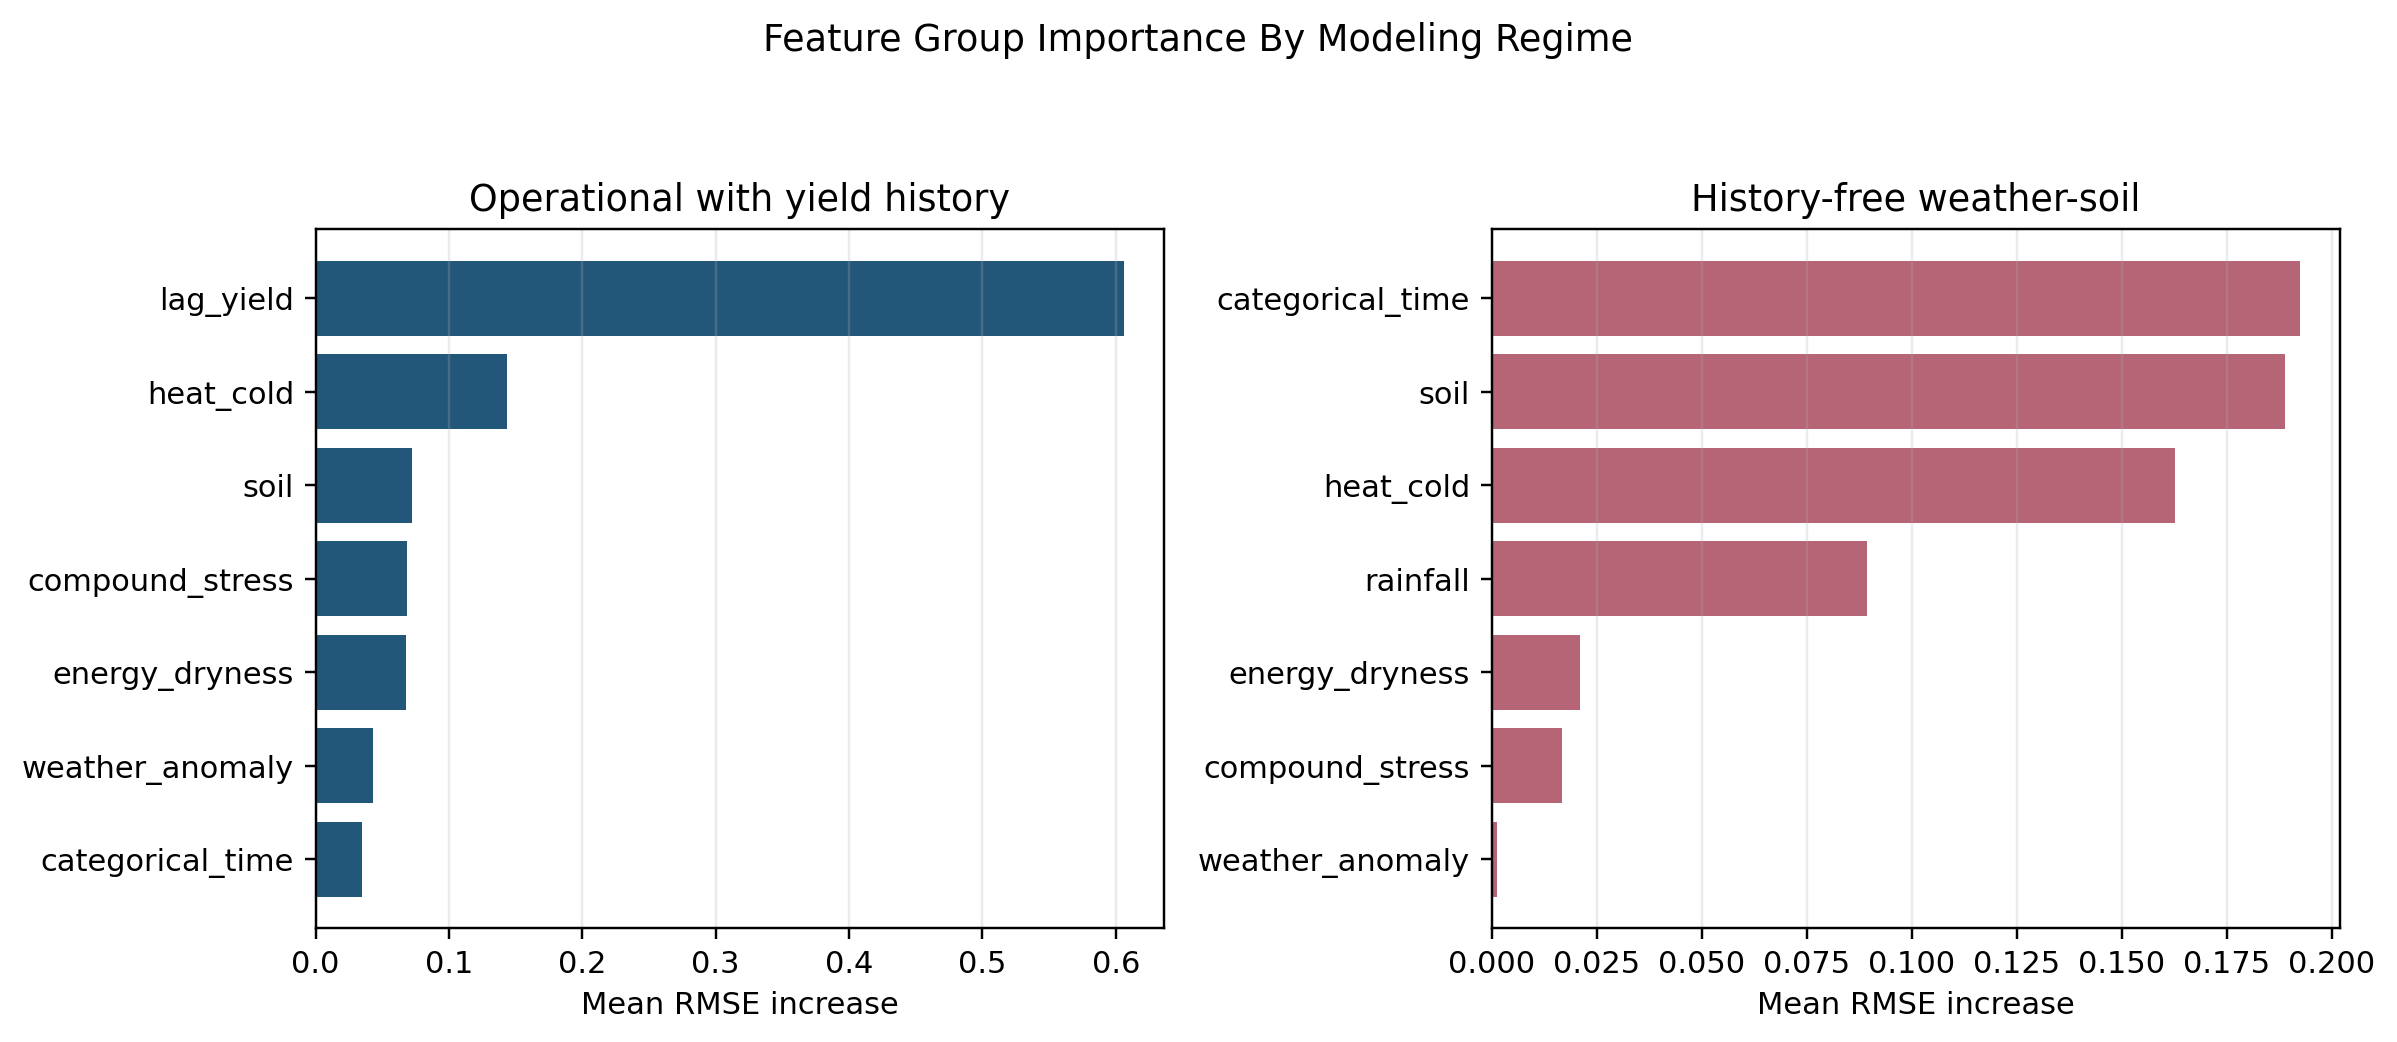
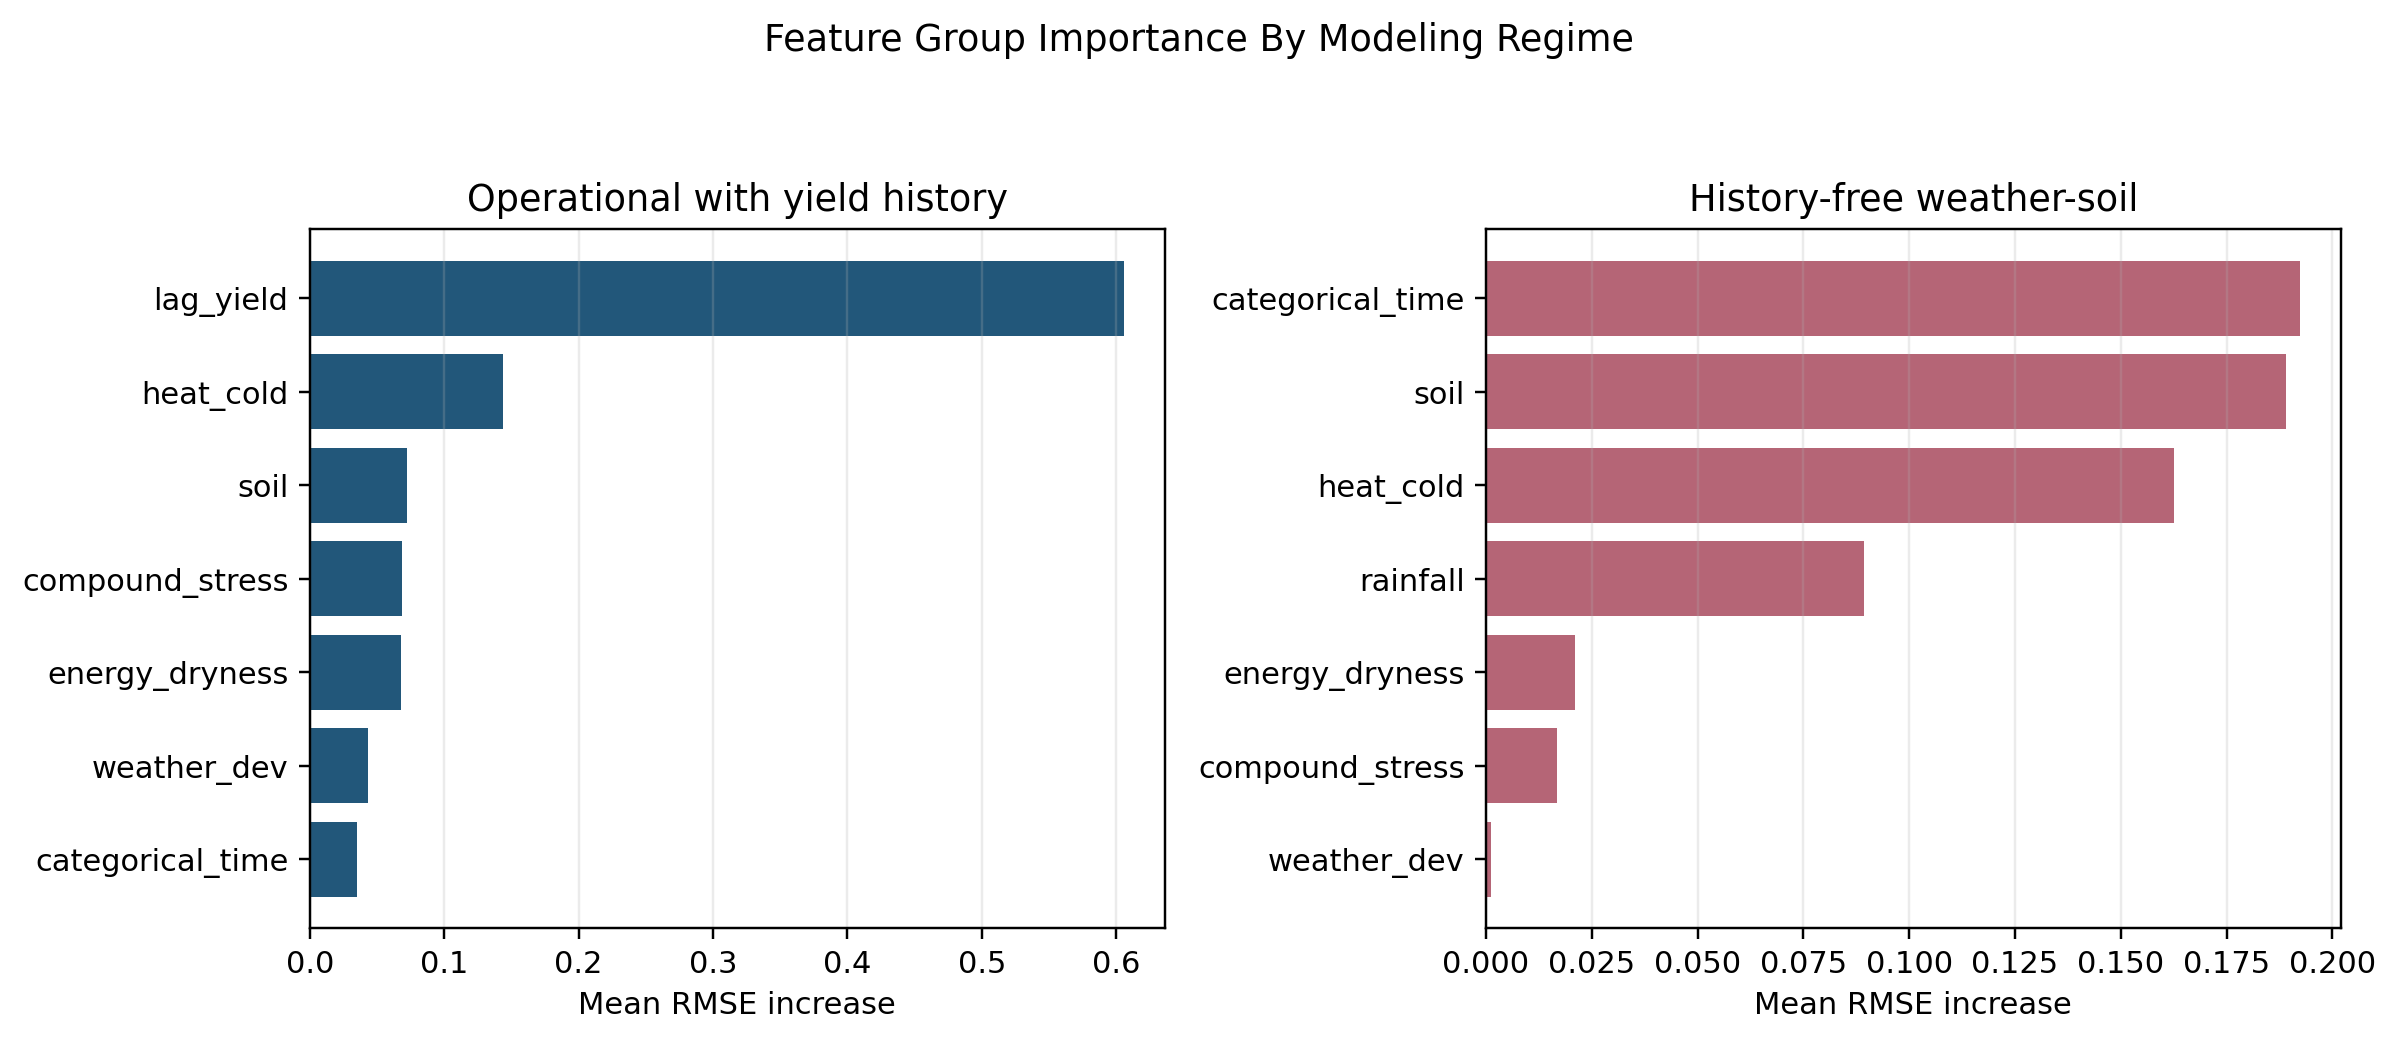
Apply final ACML checklist polish

diff --git a/src/10_prepare_acml_paper_assets.py b/src/10_prepare_acml_paper_assets.py
@@ -473,8 +473,19 @@ def extract_bibtex_entries_from_docx(path: Path) -> str:
     return "\n\n".join(entries)
 
 
+def normalize_bibtex_accents(bib: str) -> str:
+    replacements = {
+        r"Fran{\c{c}}ois": r"Fran{\c c}ois",
+        r"Herv{'e}": r"Herv{\'e}",
+        r'M{"u}ller': r'M{\"u}ller',
+    }
+    for old, new in replacements.items():
+        bib = bib.replace(old, new)
+    return bib
+
+
 def write_bibliography() -> None:
-    bib = extract_bibtex_entries_from_docx(REFERENCE_DOCX)
+    bib = normalize_bibtex_accents(extract_bibtex_entries_from_docx(REFERENCE_DOCX))
     (PAPER_DIR / "acml26.bib").write_text(bib.strip() + "\n", encoding="utf-8")
 
 
@@ -545,7 +556,7 @@ This paper studies state-level early warning for Australian winter crops. The ta
 
 The empirical design is intentionally conservative. We remove production and area variables from the main predictors, compute expected-yield and weather-deviation baselines from training years only, and keep the 2017--2021 test period outside all scaling, thresholding, calibration, and residual estimation steps. This avoids turning post-harvest information into apparent forecast skill.
 
-The main contribution is a stage-aware framework that separates two claims that are often mixed. First, a history-free weather-soil model tests whether daily weather, train-derived weather deviations, and soil background provide scientific evidence for early warning. Second, an operational model adds lagged yield history to quantify how much forecast quality improves when historical production memory is allowed. This distinction matters because a strong operational forecast may partly reflect persistent crop-region productivity rather than purely within-season weather signal.
+The main contribution is a stage-aware framework that separates two claims that are often mixed. First, a history-free weather-soil model tests whether daily weather, train-derived weather deviations, and soil background provide measurable evidence of within-season monitoring signal. Second, an operational model adds lagged yield history to quantify how much forecast quality improves when historical production memory is allowed. This distinction matters because a strong operational forecast may partly reflect persistent crop-region productivity rather than purely within-season weather signal.
 
 We make three contributions. First, we formulate Australian winter-crop forecasting as a lead-time-aware shortfall-monitoring problem, where predictions are updated from May-Jun to May-Oct rather than evaluated only after the season is nearly complete. Second, we separate a history-free weather-soil setting from a history-enhanced operational setting, allowing weather-derived early-warning evidence to be distinguished from persistent crop-region productivity memory. Third, we evaluate practical usefulness through temporal holdout testing, feature-regime ablation, stress validation, threshold-tuned risk screening, and uncertainty diagnostics, framing the outputs as state-level decision support rather than causal or farm-level prediction.
 
@@ -605,11 +616,11 @@ The weather feature groups are rainfall accumulation and dry spells, heat and co
 \resizebox{\textwidth}{!}{\input{tables/table_feature_groups.tex}}
 \end{table}
 
-We additionally construct weather-deviation features by subtracting train-period region-window baselines. This produces rainfall, temperature, dry-spell, heat-day, evapotranspiration, and radiation deviations that are comparable across regions and forecast windows. The weather-deviation baselines are computed using training years only, so they do not leak test-period information.
+We additionally construct weather-deviation features by subtracting train-period region-window baselines. This produces rainfall, temperature, dry-spell, heat-day, evapotranspiration, and radiation deviations that are comparable across regions and forecast windows. The weather-deviation baselines are computed using training years only, so they do not leak test-period information. In result tables, Dev denotes train-derived weather-deviation features.
 
 \subsection{History-Free and Operational Feature Sets}
 
-We report two primary feature regimes. The history-free weather-soil regime uses stage weather features, train-derived weather anomalies, soil background features, crop identity, region identity, and year. It excludes lagged yield, rolling yield, production, and area. The operational regime adds past-yield features from prior years for the same crop-region series. This makes it useful for deployment in known crop-region histories, but it is not interpreted as pure weather evidence.
+We report two primary feature regimes. The history-free weather-soil regime uses stage weather features, train-derived weather-deviation features, soil background features, crop identity, region identity, and year. It excludes lagged yield, rolling yield, production, and area. The operational regime adds past-yield features from prior years for the same crop-region series. This makes it useful for deployment in known crop-region histories, but it is not interpreted as pure weather evidence.
 
 The model suite combines regularized linear baselines with gradient-boosted tabular models. Ridge and ElasticNet provide stable small-data baselines, while LightGBM and CatBoost provide nonlinear tabular benchmarks \citep{ke2017lightgbm,prokhorenkova2018catboost}. We avoid presenting a black-box-only result: every performance table is paired with feature-set ablation, lead-time comparison, or group permutation importance. This is consistent with the broader argument that high-stakes decision support should prefer transparent or at least carefully audited modeling workflows \citep{rudin2022blackboxBrief}.
 
@@ -627,11 +638,11 @@ Robustness checks include rolling-origin folds, leave-one-crop-out validation, a
 
 \subsection{Lead-Time Skill}
 
-Table~\ref{tab:lead-time} compares the best history-free weather-soil and operational models at each lead time. For each window and feature regime, the displayed model is selected using validation years only, with RMSE as the selection metric. The operational model is already informative at May-Jun, with RMSE 0.721 t/ha and R2 0.676, and improves toward May-Oct. This early result is important because the May-Jun window contains only a partial season, yet still captures enough historical and early-weather structure for useful monitoring. The history-free model is weaker but still positive, reaching RMSE 0.889 t/ha and R2 0.507 at May-Oct. The history-free trajectory is not strictly monotonic: later windows add useful weather information but also correlated features and noise in a small state-level panel. We therefore interpret the curve as a monitoring trajectory rather than assuming that every additional month must improve skill. The gap between the two regimes motivates the central interpretation of the paper: weather and soil provide measurable but secondary monitoring signal, while historical yield memory is a major driver of operational accuracy. A fixed-model lead-time check in Appendix~\ref{tab:fixed-model} verifies that the lead-time pattern is not solely an artifact of switching model classes across windows.
+Table~\ref{tab:lead-time} compares the best history-free weather-soil and operational models at each lead time. For each window and feature regime, the displayed model is selected using validation years only, with RMSE as the selection metric. The operational model is already informative at May-Jun, with RMSE 0.721 t/ha and R2 0.676, and improves toward May-Oct. This early result is important because the May-Jun window contains only a partial season, yet still captures enough historical and early-weather structure for useful monitoring. The history-free model is weaker but still positive, reaching RMSE 0.889 t/ha and R2 0.507 at May-Oct. The history-free trajectory is not strictly monotonic: later windows add useful weather information but also correlated features and noise in a small state-level panel. We therefore interpret the curve as a monitoring trajectory rather than assuming that every additional month must improve skill. The gap between the two regimes motivates the central interpretation of the paper: weather and soil provide measurable but secondary monitoring signal, while historical yield memory is a major driver of operational accuracy. A fixed-model lead-time check in Appendix A verifies that the lead-time pattern is not solely an artifact of switching model classes across windows.
 
 \begin{table}[htbp]
 \centering
-\caption{Best test performance by forecast window for the history-free weather-soil model and the operational model.}
+\caption{Best test performance by forecast window for the history-free weather-soil model and the operational model. Dev denotes train-derived weather-deviation features.}
 \label{tab:lead-time}
 \input{tables/table_lead_time.tex}
 \end{table}

diff --git a/paper_acml/main.tex b/paper_acml/main.tex
@@ -63,7 +63,7 @@ This paper studies state-level early warning for Australian winter crops. The ta
 
 The empirical design is intentionally conservative. We remove production and area variables from the main predictors, compute expected-yield and weather-deviation baselines from training years only, and keep the 2017--2021 test period outside all scaling, thresholding, calibration, and residual estimation steps. This avoids turning post-harvest information into apparent forecast skill.
 
-The main contribution is a stage-aware framework that separates two claims that are often mixed. First, a history-free weather-soil model tests whether daily weather, train-derived weather deviations, and soil background provide scientific evidence for early warning. Second, an operational model adds lagged yield history to quantify how much forecast quality improves when historical production memory is allowed. This distinction matters because a strong operational forecast may partly reflect persistent crop-region productivity rather than purely within-season weather signal.
+The main contribution is a stage-aware framework that separates two claims that are often mixed. First, a history-free weather-soil model tests whether daily weather, train-derived weather deviations, and soil background provide measurable evidence of within-season monitoring signal. Second, an operational model adds lagged yield history to quantify how much forecast quality improves when historical production memory is allowed. This distinction matters because a strong operational forecast may partly reflect persistent crop-region productivity rather than purely within-season weather signal.
 
 We make three contributions. First, we formulate Australian winter-crop forecasting as a lead-time-aware shortfall-monitoring problem, where predictions are updated from May-Jun to May-Oct rather than evaluated only after the season is nearly complete. Second, we separate a history-free weather-soil setting from a history-enhanced operational setting, allowing weather-derived early-warning evidence to be distinguished from persistent crop-region productivity memory. Third, we evaluate practical usefulness through temporal holdout testing, feature-regime ablation, stress validation, threshold-tuned risk screening, and uncertainty diagnostics, framing the outputs as state-level decision support rather than causal or farm-level prediction.
 
@@ -123,11 +123,11 @@ The weather feature groups are rainfall accumulation and dry spells, heat and co
 \resizebox{\textwidth}{!}{\input{tables/table_feature_groups.tex}}
 \end{table}
 
-We additionally construct weather-deviation features by subtracting train-period region-window baselines. This produces rainfall, temperature, dry-spell, heat-day, evapotranspiration, and radiation deviations that are comparable across regions and forecast windows. The weather-deviation baselines are computed using training years only, so they do not leak test-period information.
+We additionally construct weather-deviation features by subtracting train-period region-window baselines. This produces rainfall, temperature, dry-spell, heat-day, evapotranspiration, and radiation deviations that are comparable across regions and forecast windows. The weather-deviation baselines are computed using training years only, so they do not leak test-period information. In result tables, Dev denotes train-derived weather-deviation features.
 
 \subsection{History-Free and Operational Feature Sets}
 
-We report two primary feature regimes. The history-free weather-soil regime uses stage weather features, train-derived weather anomalies, soil background features, crop identity, region identity, and year. It excludes lagged yield, rolling yield, production, and area. The operational regime adds past-yield features from prior years for the same crop-region series. This makes it useful for deployment in known crop-region histories, but it is not interpreted as pure weather evidence.
+We report two primary feature regimes. The history-free weather-soil regime uses stage weather features, train-derived weather-deviation features, soil background features, crop identity, region identity, and year. It excludes lagged yield, rolling yield, production, and area. The operational regime adds past-yield features from prior years for the same crop-region series. This makes it useful for deployment in known crop-region histories, but it is not interpreted as pure weather evidence.
 
 The model suite combines regularized linear baselines with gradient-boosted tabular models. Ridge and ElasticNet provide stable small-data baselines, while LightGBM and CatBoost provide nonlinear tabular benchmarks \citep{ke2017lightgbm,prokhorenkova2018catboost}. We avoid presenting a black-box-only result: every performance table is paired with feature-set ablation, lead-time comparison, or group permutation importance. This is consistent with the broader argument that high-stakes decision support should prefer transparent or at least carefully audited modeling workflows \citep{rudin2022blackboxBrief}.
 
@@ -145,11 +145,11 @@ Robustness checks include rolling-origin folds, leave-one-crop-out validation, a
 
 \subsection{Lead-Time Skill}
 
-Table~\ref{tab:lead-time} compares the best history-free weather-soil and operational models at each lead time. For each window and feature regime, the displayed model is selected using validation years only, with RMSE as the selection metric. The operational model is already informative at May-Jun, with RMSE 0.721 t/ha and R2 0.676, and improves toward May-Oct. This early result is important because the May-Jun window contains only a partial season, yet still captures enough historical and early-weather structure for useful monitoring. The history-free model is weaker but still positive, reaching RMSE 0.889 t/ha and R2 0.507 at May-Oct. The history-free trajectory is not strictly monotonic: later windows add useful weather information but also correlated features and noise in a small state-level panel. We therefore interpret the curve as a monitoring trajectory rather than assuming that every additional month must improve skill. The gap between the two regimes motivates the central interpretation of the paper: weather and soil provide measurable but secondary monitoring signal, while historical yield memory is a major driver of operational accuracy. A fixed-model lead-time check in Appendix~\ref{tab:fixed-model} verifies that the lead-time pattern is not solely an artifact of switching model classes across windows.
+Table~\ref{tab:lead-time} compares the best history-free weather-soil and operational models at each lead time. For each window and feature regime, the displayed model is selected using validation years only, with RMSE as the selection metric. The operational model is already informative at May-Jun, with RMSE 0.721 t/ha and R2 0.676, and improves toward May-Oct. This early result is important because the May-Jun window contains only a partial season, yet still captures enough historical and early-weather structure for useful monitoring. The history-free model is weaker but still positive, reaching RMSE 0.889 t/ha and R2 0.507 at May-Oct. The history-free trajectory is not strictly monotonic: later windows add useful weather information but also correlated features and noise in a small state-level panel. We therefore interpret the curve as a monitoring trajectory rather than assuming that every additional month must improve skill. The gap between the two regimes motivates the central interpretation of the paper: weather and soil provide measurable but secondary monitoring signal, while historical yield memory is a major driver of operational accuracy. A fixed-model lead-time check in Appendix A verifies that the lead-time pattern is not solely an artifact of switching model classes across windows.
 
 \begin{table}[htbp]
 \centering
-\caption{Best test performance by forecast window for the history-free weather-soil model and the operational model.}
+\caption{Best test performance by forecast window for the history-free weather-soil model and the operational model. Dev denotes train-derived weather-deviation features.}
 \label{tab:lead-time}
 \input{tables/table_lead_time.tex}
 \end{table}

diff --git a/src/11_run_paper_revision_support.py b/src/11_run_paper_revision_support.py
@@ -338,8 +338,12 @@ def make_split_importance_figure(tables_dir: Path, figures_dir: Path) -> pd.Data
         .agg(mean_rmse_delta=("rmse_delta_mean", "mean"), max_rmse_delta=("rmse_delta_mean", "max"), n_windows=("forecast_window", "nunique"))
         .sort_values(["feature_set", "mean_rmse_delta"], ascending=[True, False])
     )
+    group_labels = {"weather_anomaly": "weather_dev"}
+    summary["feature_group"] = summary["feature_group"].replace(group_labels)
     summary["feature_label"] = summary["feature_set"].map(FEATURE_LABELS)
-    summary.to_csv(tables_dir / "paper_revision_feature_importance_split.csv", index=False)
+    csv_summary = summary.copy()
+    csv_summary["feature_set"] = csv_summary["feature_label"]
+    csv_summary.to_csv(tables_dir / "paper_revision_feature_importance_split.csv", index=False)
 
     fig, axes = plt.subplots(1, 2, figsize=(11, 4.8), sharex=False)
     colors = {"full_operational": "#22577a", "weather_anomaly_soil_no_lag": "#b56576"}

diff --git a/outputs/codex_fix_checklist_2026_06_24/CODEX_FIX_CHECKLIST_IMPLEMENTATION_LOG.md b/outputs/codex_fix_checklist_2026_06_24/CODEX_FIX_CHECKLIST_IMPLEMENTATION_LOG.md
@@ -1,0 +1,30 @@
+# Codex Fix Checklist Implementation Log
+
+Source checklist: `Codex_fix_checklist_bai_Uc_Early_Warning.docx`.
+
+## Implemented Fixes
+
+- Replaced remaining visible manuscript use of the old weather-anomaly feature wording with `train-derived weather-deviation features`.
+- Softened the introduction claim about evidence strength to measurable evidence of within-season monitoring signal.
+- Replaced the lead-time fixed-model cross-reference with `Appendix A`, avoiding the wrong rendered appendix-number issue.
+- Added a clear explanation that `Dev` means train-derived weather-deviation features.
+- Regenerated Figure 5 feature-group labels so the visible label is `weather_dev`, not `weather_anomaly`.
+- Added BibTeX accent normalization in the paper generator:
+  - `Fran{\c c}ois`
+  - `Herv{\'e}`
+  - `M{\"u}ller`
+- Refreshed `paper_acml/main.pdf`, the anonymous handoff PDF, the source zip, and the OpenReview convenience package.
+
+## Validation
+
+- `python -m compileall src`: passed.
+- `python src/11_run_paper_revision_support.py`: passed.
+- `python src/10_prepare_acml_paper_assets.py`: passed.
+- LaTeX build with `pdflatex -> bibtex -> pdflatex -> pdflatex`: passed.
+- Final PDF: 16 pages.
+- LaTeX log: no errors, no undefined citations/references, no overfull boxes.
+- PDF text check confirms:
+  - `Appendix A verifies` appears.
+  - `Dev denotes train-derived weather-deviation features` appears.
+  - `train-derived weather-deviation features` appears.
+  - The old appendix-number rendering, old weather-anomaly feature wording, and over-strong evidence wording do not appear.

diff --git a/outputs/reports/ACML_PAPER_VALIDATION_LOG.md b/outputs/reports/ACML_PAPER_VALIDATION_LOG.md
@@ -35,6 +35,7 @@ pdflatex -interaction=nonstopmode -halt-on-error main.tex
 - During the latest validation run, `paper_acml/main.pdf`, the handoff PDF, source zip, and OpenReview package were all refreshed successfully from the follow-up revision build.
 - Follow-up revision from `Loi_can_sua_tiep_bai_Uc_Early_Warning.docx` was applied: the manuscript no longer claims that the history-free weather-soil model outperforms identity/time or historical baselines.
 - Figure 1 was upgraded from a simple timeline to a workflow showing inputs, stage windows, model regimes, and monitoring outputs.
+- Final checklist from `Codex_fix_checklist_bai_Uc_Early_Warning.docx` was applied: remaining visible weather-anomaly wording was converted to weather-deviation wording, the Appendix A cross-reference was fixed, Figure 5 now uses `weather_dev`, and BibTeX accents were normalized.
 
 ## Anonymous Submission Checks
 
@@ -48,6 +49,7 @@ pdflatex -interaction=nonstopmode -halt-on-error main.tex
 - The manuscript separates the history-free weather-soil model from the operational lag-yield model.
 - History-free weather-soil is now framed as measurable but secondary monitoring information, not the best forecasting/deployment model.
 - Table labels use `Weather+Dev`/`Weather+Dev+Soil` for train-derived weather deviations, reducing anomaly-attribution language.
+- `Dev` is explicitly defined as train-derived weather-deviation features.
 - Table 7 uses `Risk score` and states that risk scores rank analyst-review watch lists rather than fully calibrated probabilities.
 - Uncertainty diagnostics state nominal 80% conformal coverage, validation-period residual calibration, and no test retuning.
 - Stress validation labels the held-out test-year row as an all-window mean, avoiding comparison with the May-Oct-only result.
@@ -72,3 +74,4 @@ pdflatex -interaction=nonstopmode -halt-on-error main.tex
 - `AUS_project/outputs/paper_revision_followup_2026_06_24/01_LOI_CAN_SUA_TIEP_REVISION_PLAN.md`
 - `AUS_project/outputs/paper_revision_followup_2026_06_24/02_IMPLEMENTATION_LOG.md`
 - `AUS_project/outputs/paper_revision_followup_2026_06_24/03_VALIDATION_AND_GIT_UPDATE.md`
+- `AUS_project/outputs/codex_fix_checklist_2026_06_24/CODEX_FIX_CHECKLIST_IMPLEMENTATION_LOG.md`